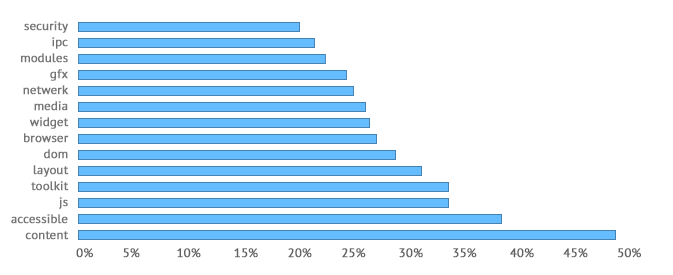
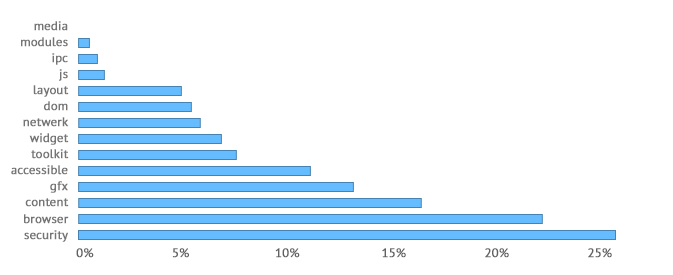
Updated charts, prose

diff --git a/prose/index.htm b/prose/index.htm
@@ -43,15 +43,20 @@
 				<div style="position:absolute;margin-top:20px;height:40px"></div>
 				<h1>How maintainable is the Firefox codebase?</h1>
 				<h2>ALI ALMOSSAWI</h2>
-				<div class="date">May 14, 2013</div>
+				<div class="date">May 15, 2013</div>
 				
 <br /><br /><br />
-<p>Look at this joyful man.</p>
+<!--<p>Look at this joyful man.</p>
 <div class="smile">(&middot;‿&middot;)</div>
 
 
-<p>He looks healthy doesn't he?  Not so fast, says Medical Science.  He might very well be healthy, but to make sure, we first need to probe his insides and take a look at his internal organs.</p>
-<p>A few months ago, I probed the insides of the Firefox codebase.  What follows is a summary of my findings as well as a description of what I did, which might be helpful for those wishing to replicate this work with other codebases.</p>
+<p>He looks healthy doesn't he?  Not so fast, says Medical Science.  He might very well be healthy, but to make sure, we first need to probe his insides and take a look at his internal organs.</p>-->
+
+<p class="subtitle">Abstract</p>
+<p>This work explores a particular facet of quality in Firefox, namely, maintainability.  By appealing to the explanatory powers of five distinct and practical measures of architectural complexity, and with the aid of static analysis and network manipulation tools, we arrive at some preliminary findings.  We find that 11% of files in Firefox are highly interconnected, a value that went up significantly following version 3.0.  We find that making any change to a randomly selected file can, on average, directly impact eight files and indirectly impact over 1,400 files.  We see that files' internal complexity is on average going down.  Their external complexity as measured by direct dependencies is also going down, whereas their external complexity as measured by propagation cost has remained steady.  With respect to process, we find that the switch to the rapid release cycle from version 5.0 onwards had a positive impact on quality.  Though the analysis reveals no imminently alarming red flags when it comes to maintainability, it does shine light on a number of issues that would be worth investigating.</p>
+
+<p class="subtitle">1 Intro</p>
+<p>I recently started looking at the Firefox codebase.  What follows is a summary of my findings as well as a description of what I did, which might be helpful for those wishing to replicate this work with other codebases.</p>
 <p>The question that motivated this inquiry was: &ldquo;How healthy is the Firefox codebase&rdquo;, which suggests that the fundamental facet of interest in the system at hand is its quality.  The goal of this work was two-fold:</p>
 
 <ol>
@@ -61,32 +66,31 @@
 
 The exploratory tool's source-code as well as the data described herein are available on <a href="https://github.com/almossawi/Firefox-Codebase-Evolution/">Github</a>.
 
-<p class="subtitle">Abstract</p>
-<p>This work explores a particular facet of quality in Firefox, namely, maintainability.  By appealing to the explanatory powers of five distinct and practical measures of architectural complexity, and with the aid of static analysis and network manipulation tools, we arrive at some preliminary findings.  We find that 11% of files in Firefox are highly interconnected, a value that went up significantly following version 3.0.  We find that making any change to a randomly selected file can, on average, directly impact eight files and indirectly impact over 1,400 files.  We see that files' internal complexity is on average going down.  Their external complexity as measured by direct dependencies is also going down, whereas their external complexity as measured by propagation cost has remained steady.  With respect to process, we find that the switch to the rapid release cycle from version 5.0 onwards had a positive impact on quality.  Though the analysis reveals no imminently alarming red flags when it comes to maintainability, it does shine light on a number of issues that would be worth investigating.</p>
-
-<p class="subtitle">1 Defining quality</p>
+<p class="subtitle">2 Defining quality</p>
 <p>As actively developed software ages, it tends to grow in size and can accumulate what is known as technical debt, wherein tiny deviations from a good process, shortcuts here and there and less than optimal code changes build up into debt that the team is then forced to pay off in the form of a refactoring effort.  One of the ways of measuring architectural changes in large codebases that can lead to technical debt is by looking at pertinent quality attributes, primary of which, in my opinion, is maintainability.  Maintainability is ambiguous though and can cover a wide spectrum of things.  What exactly do we mean by it?  Let us codify it using a set of concrete metrics.  In this case, I have chosen the following metrics:</p>
 
-<p class="subtitle">1.1 LOC</p>
+<p class="subtitle">2.1 LOC</p>
 <p>LOC measures the number of executable lines of code in each release, ignoring comments and blank lines, and is widely used as a baseline measure of quality [1][2]. A system with more LOC is typically more difficult to maintain.  LOC and defect density have an inverse relationship [3][4][5], or according to some studies a curvilinear relationship [6].  This may seem counterintuitive at first.  The explanation is that firstly, architecture does not change at the same rate as LOC, and secondly, that a sizable number of defects occur within the interfaces that tie modules or components together.  In a small system, the likelihood of a defect occuring in an interface is fairly high.  As the system's size increases, most of the new code ends up going into modules and components rather than into new interfaces, and hence the propensity for defects per LOC goes down as LOC goes up.
 <p>Here, the set of analyzed files includes all files that meet our file-type filter<sup>1</sup>, including unit tests, which in some versions constitute over 50% of all files and up to several hundreds of thousands of LOC. A lot of these unit tests are thrown out during a later stage for being singletons, i.e. having no dependencies to or from any other file in the codebase.</p>
 
 <p class="footy"><sup>1</sup> .c, .C, .cc, .cpp, .css, .cxx, .h, .H, .hh, .hpp, .htm, .html, .hxx, .inl, .java, .js, .py, .s, .xml</p>
 
-<p class="subtitle">1.2 Cyclomatic complexity</p>
+<p class="subtitle">2.2 Cyclomatic complexity</p>
 <p>Cyclomatic complexity, developed by Thomas McCabe in 1976, measures the number of linearly independent paths within a software system and can be applied either to the entire system or to a constituent part [7]. By viewing a block of code as a control graph, the nodes constitute indivisible lines of code that execute in sequence and the directed edges connect two nodes if one can occur after the other. So, for example, branching constructs like if-else statements would result in a node being connected to two output nodes, one for each branch.</p>
 <p>Cyclomatic complexity is defined as v(G) = e – n + 2p where v(G) is the cyclomatic number of a graph G, e is the number of edges, n is the number of nodes and p is the number of connected components, or exit nodes, in the graph. A block of code with a single set of if-else statements would be calculated as follows: e = 6, n = 6 and p = 1, therefore, v(G) = 6 – 6 + 2 * 1 = 2. The additive nature of the metric means that the complexity of several graphs is equal to the sum of each graph. In our measure of cyclomatic complexity, we control for size and hence, the value for each release is per 1,000 LOC.</p>
 
-<p class="subtitle">1.3 First-order density</p>
+<div class="page-break"></div>
+	
+<p class="subtitle">2.3 First-order density</p>
 <p>First-order density measures the number of direct dependencies between files.  For releases, we show it per 10,000 file pairs whereas for modules, where matrices are generally not as sparse, we show the density as a percentage. The way it is calculated is by first building an adjacency matrix, sometimes called a Design Structure Matrix (DSM), using the set of source-code files sorted by their hierarchical directory structure. Wherever a file in a particular row depends on a file in a particular column, we mark the element with a '1'.  Because we're only capturing direct dependencies, this matrix is referred to as a first-order dependency matrix.</p>
 <p>In such a matrix, a square-shaped cluster indicates many dependencies between files within a module.  All the dots to the right and left of a cluster are files that the module depends on. All files above and below it are files that depend on it. In many paradigms, modularity (low coupling, high cohesion) is a desirable quality attribute. Hence, an ideal system has modules that have more intra-module dependencies and fewer inter-module dependencies.  Dividing the number of non-zero elements by the matrix size and adjusting by our multiplier then gives us our measure of density.</p>
 
-<p class="subtitle">1.4 Propagation cost</p>
+<p class="subtitle">2.4 Propagation cost</p>
 <p>Propagation cost measures direct as well as indirect dependencies between files in a codebase. In practical terms, it gives a sense of the proportion of files that may be impacted, on average, when a change is made to a randomly chosen file [8][9].</p>
 <p>The process of transforming a first-order dependency matrix that captures only direct dependencies between files to a visibility matrix, also known as a reachability matrix, that captures indirect dependencies as well is achieved through matrix multiplication by raising the first-order dependency matrix to multiple successive powers until we achieve its transitive closure. Thus, a matrix raised to the power of two would show the indirect dependencies between elements that have a path length of two, i.e. calls from A to C, if A calls B and B calls C. Thereafter, by summing these matrices together one gets the visibility matrix.  With the Firefox codebase, the longest chain of calls is seven calls, hence no file that is connected to another is more than seven calls away.</p>
 <p>For this ripple effect to be of use in analysis, the density of the visibility matrix is captured within the metric that we call propagation cost.</p>
 
-<p class="subtitle">1.5 Core size</p>
+<p class="subtitle">2.5 Core size</p>
 <p>Core files are files that are highly interconnected via a chain of cyclic dependencies and have been shown in various studies to have a higher propensity for defects [10]. They are one of four types of files that one sees when plotting files along the axes of fan-in and fan-out<sup>2</sup>, the intuition for this breakout being that different directions and magnitudes of dependencies have varying impacts on software quality. This intuition has been validated by several studies [11][12] and a smaller core has been shown to result in fewer defects.</p>
 <img src="images/core_periph.png" />
 <p class="caption">Diagram 1: Four types of files.</p>
@@ -97,10 +101,10 @@ The exploratory tool's source-code as well as the data described herein are avai
 <p>Since it makes practical sense to think of files beyond such a point as being part of a large cycle of calls, we use this point to calculate the core.  A core file is therefore one whose indirect fan-in is greater than the first discontinuity point in the distribution of fan-in values and whose indirect fan-out is greater than the first discontinuity point in the distribution of fan-out values<sup>3</sup>.</p>
 
 <p class="footy"><sup>2</sup> Fan-in captures the count of dependencies flowing into an element; fan-out captures the count of dependencies flowing out of an element.</p>
-<p class="footy"><sup>3</sup> The spreadsheet referenced below includes two columns for core size; one calculated as described and one calculated using medians.  When medians are used, we see a higher series of core sizes (mean = 39%); both series are highly and positively correlated.
+<p class="footy"><sup>3</sup> The spreadsheet referenced below includes two columns for core size; one calculated as described and one calculated using medians.  When medians are used, we see a series of higher core sizes (mean = 39%); both series are highly and positively correlated.
 
-<p class="subtitle">2 Method</p>
-<p class="subtitle">2.1 Data</p>
+<p class="subtitle">3 Method</p>
+<p class="subtitle">3.1 Data</p>
 <p>The dataset consists of the codebases of 23 major releases of Firefox, from v1.0 to v20.0, all of which are large enough for analysis and so we don't have to worry about adversely impacting our architectural measures as a result of having too few files.  Said measures can become unreliable when codebases are too small, which makes intuitive sense.  Furthermore, it is not very meaningful to talk about dependencies when the system size is small enough for one person to be knowledgeable about all of its modules.  The following table shows some descriptive statistics for the 23 codebases.</p>
 
 <!--<div class="page-break"></div>-->
@@ -211,11 +215,11 @@ The exploratory tool's source-code as well as the data described herein are avai
 	</tr>
 	<tr>
 		<td class="lhs">core size</td>
-		<td>28.45%</td>
-		<td>25.85%</td>
-		<td>9.06%</td>
-		<td>15.84%</td>
-		<td>52.28%</td>
+		<td>8.93%</td>
+		<td>5.03%</td>
+		<td>9.82%</td>
+		<td>0%</td>
+		<td>42.54%</td>
 	</tr>
 	<tr>
 		<td class="lhs">files</td>
@@ -229,14 +233,14 @@ The exploratory tool's source-code as well as the data described herein are avai
 <p class="caption">Table 2: Descriptive statistics for the set of Firefox modules (n=70)</p>
 <p>Full details are available in the spreadsheet <a href="https://docs.google.com/spreadsheet/ccc?key=0Ai_gYoOkxENIdHJUT0M3YXNzdVVYUXRkQzBWellHamc#gid=3">here</a> and the .json file <a href="http://almossawi.com/firefox/data/architectural.json">here</a>.</p>
 <p>Modules are a bit more nuanced since we generally want most of the interaction between files to happen within modules rather than between them.  For simplicity, we consider a module to be a system, which allows us to continue using the same measures of goodness discussed earlier.  Hence, a module that has a higher density of dependencies is considered to be less maintainable than one with a lower density.  This only gives partial insight into a module's architecture, and begs the question: Well, how do the number and density of internal calls compare with the number and density of external ones?  That question is part of the motivation for the third, currently in-progress, view on the <a href="../">Evolution of the Firefox Codebase</a> page.</p>
-<p>The distribution of files' fan-in and fan-out values shows two distinct patterns, both of which are skewed.  For direct fan-in and fan-out, we see a long tail indicating that the majority of files don't have that many direct inward and outward calls.  For indirect fan-in and fan-out values, which as mentioned earlier, are used to classify a file into one of several types and consequently calculate the core size for a codebase, we see that files either don't have that many indirect calls or are part of a set of files that has a high number of calls.</p>
+<p>The distribution of files' fan-in and fan-out values shows two distinct patterns, both of which are skewed.  For direct fan-in and fan-out, we see a smooth distribution with a very long tail indicating that the majority of files don't have that many direct inward and outward calls.  For indirect fan-in and fan-out values, which as mentioned earlier, are used to classify a file into one of several types and consequently calculate the core size for a codebase for module, we see that files either don't have that many indirect calls or are part of a cluster of files that has a high number of calls.  Almost all sets of files that were analyzed exhibit this &ldquo;Nessie&rdquo;-like pattern.  Those that do not most likely do not have a core.</p>
 
 <img src="images/vfi_vfo.png" style="width:713px"/>
 <p class="caption">Chart 1: Distribution of indirect fan-in and fan-out for the 12,822 files in Firefox v1.0.</p>
 
 <!--<p class="footy"><sup>3</sup> ಠ_ಠ</p>-->
 
-<p class="subtitle">2.2 Processing the data</p>
+<p class="subtitle">3.2 Processing the data</p>
 <p>Processing the data involves the use of a set of tools and scripts. The general workflow is shown in the following diagram.</p>
 
 <img src="images/process.png" style="width:570px"/>
@@ -244,18 +248,18 @@ The exploratory tool's source-code as well as the data described herein are avai
 
 <p>The tool set is comprised of a static analysis tool called Understand, MATLAB and a number of local and Web scripts. The input to the static analysis tool is a particular Firefox release's codebase or a particular module's code. The end-result is a set of metrics that are consolidated into a single dataset that may be analyzed further by a statistical analysis tool.  The three data sources that form the final dataset are enumerated below.</p>
 
-<p class="subtitle">2.2.1 Common complexity metrics</p>
+<p class="subtitle">3.2.1 Common complexity metrics</p>
 <p>The static analysis tool outputs common metrics such as LOC and cyclomatic complexity, which can be extracted either through a user interface or via a Perl API.  Generating these and similarly common metrics for each codebase can be time-consuming.  Furthermore, it seems like the tool has to reprocess files every time a project is reopened.  On the plus side, we get a large amount of useful data that can be broken down by system, module or component.</p>
 
 <!--<div class="page-break"></div>-->
 
-<p class="subtitle">2.2.2 Dependency metrics</p>
+<p class="subtitle">3.2.2 Dependency metrics</p>
 <p>The static analysis tool is used to export dependency data for a particular release.  The generated .csv file has three columns: from, to, references.  The first two columns store the full path of each file and the third is the number of references between the two files.  Each row in the file is a source-code file pair.  The .csv file is then processed by a Perl script, which replaces the data in the first two columns with integers that reference file names stored in a separate lookup file.  That processed data is then used as input for a MATLAB script, which uses it to a) build a first-order dependency matrix, b) raise it to multiple powers until its transitive closure is reached resulting in a visibility matrix and c) generate the desired complexity measures &#8211; first-order density, propagation cost, core size and a few others.</p>
 <p>Here is an example of a first-order matrix showing direct dependencies between files in the <i>gfx</i> module in Firefox 20 (left) and the visibility matrix for the same module (right).  Notice how new patterns of dependencies emerge when we start considering indirect dependencies.</p>
 <img src="images/firefox20_gfx_module_matrices.png" style="width:600px" />
 <p class="caption">Diagram 3: A first-order dependency matrix (left) and visibility matrix (right) for the same module.</p>
 
-<p class="subtitle">2.2.3 Defect metrics</p>
+<p class="subtitle">3.2.3 Defect metrics</p>
 <p>We use a Web script to query the Bugzilla database and gather defect data for individual releases.  The parameters of our request use the following criteria: </p>
 <ol>
 	<li>Status &ne; “unconfirmed”</li>
@@ -273,13 +277,15 @@ The exploratory tool's source-code as well as the data described herein are avai
 
 <p class="footy"><sup>4</sup> The resolution field can be either &lsquo;fixed&rsquo; or &lsquo;---&rsquo;, which accommodates both sets of closed and fixed defects as well as confirmed open ones.</p>
 
-<p class="subtitle">3 Findings</p>
-<p class="subtitle">3.1 Architectural indicators generally show satisfactory levels of maintainability</p>
+<p class="subtitle">4 Findings</p>
+<p class="subtitle">4.1 Architectural indicators generally show satisfactory levels of maintainability</p>
 	<p>Cyclomatic complexity shows a slow decreasing trend at a mean rate of -0.85% with the most recent release showing it to be the lowest ever.  This is a good thing.  It indicates that the code within files is, on average, getting less complex.</p>
 	<div class="chart_container" id="allversions_mccabe_per_kloc">
 		<div></div>
 	</div>
 	<p class="caption">Chart 2: Cyclomatic complexity.</p>
+	
+	<div class="page-break"></div>
 	
 	<p>LOC code is growing at a mean rate of 4.04%.  Using other open-source codebases as benchmarks, this appears to be a reasonable rate.  Only in v4.0 did LOC grow at a noticeably larger rate of 20.34%.  Given the context, this may be understandable seeing how significant a release v4.0 was for Mozilla.  At no point do we see substantial drops in LOC, something that would be indicative of a major refactoring effort, as was the case with the original Mozilla browser.</p>
 	<div class="chart_container" id="allversions_loc_code">
@@ -301,13 +307,15 @@ The exploratory tool's source-code as well as the data described herein are avai
 	</div>
 	<p class="caption">Chart 5: Propagation cost.</p>
 	
+	<div class="page-break"></div>
+	
 	<p>Core size shows a regime shift at v3.0 with the mean size increasing from 3.55% to 12.51%.  v3.0 is the only Firefox release to have been in development for two years.   All others before the Rapid Release Cycle spent approximately one year in development. Further investigation would be needed to uncover what, during those two years of development, was the main driver of this uplift in the number of highly interconnected files.  Note that the total number of dependencies dropped significantly in that release, however, the proportion of highly interconnected files increased.</p>
 	<div class="chart_container" id="allversions_percent_in_core_at_discontinuity">
 		<div></div>
 	</div>
 	<p class="caption">Chart 6: Core size.</p>
 	
-<p class="subtitle">3.2 Switching to the rapid release cycle (RRC) has had a positive impact on maintainability</p>
+<p class="subtitle">4.2 Switching to the rapid release cycle (RRC) has had a positive impact on maintainability</p>
 <p>RRC began with v5.0 of Firefox and aimed to constrain the release cycle to 6-week time periods and tighten the software development lifecycle.  Comparing the seven observations from before the switch to RRC with the 16 afterwards reveals the following results.</p>
 	<p>Propagation cost shows little change before and after RRC, having slightly gone up from a mean of 4.36% to 5.57%, however, looking at its mean release-over-release growth, it becomes evident that it has become much less volatile, having gone down from 20.02% to just 3.30%, which is a good improvement.  Its standard deviation has dropped from 51.95% to 21.54%.</p>
 	<p>Core size is, similarly, much less volatile after RRC, with its mean growth dropping from 47.51% to 6.54% and its standard deviation from 89.02% to 24.53%.</p>
@@ -315,7 +323,7 @@ The exploratory tool's source-code as well as the data described herein are avai
 	<p>First-order density has improved seeing as it the mean density has gone down from 4.75 to 2.11, though that seems to be despite the switch to RRC rather than because of it; first-order density appears to have in fact exhibited a downward trend from v3.0 onwards.  The biggest dip occurred in v3.5 where it dropped 33.46%.</p>
 	<p>Cyclomatic complexity has been steadily improving over time, though like density, the trend of improvement started before the switch to RRC.  Having said that, its mean growth following the switch is a slightly improved -1.10% compared to -0.19% before.</p>
 
-<p class="subtitle">3.3 A subset of modules appears to be noticeably more complex than the rest</p>
+<p class="subtitle">4.3 A subset of modules appears to be noticeably more complex than the rest</p>
 <p>Splitting our module-level data by module and looking at the mean values for each module for each of the above metrics reveals the following about the maintainability levels of our various modules:</p>
 
 <table>
@@ -346,8 +354,8 @@ The exploratory tool's source-code as well as the data described herein are avai
 	</tr>
 	<tr>
 		<td class="lhs">core size</td>
-		<td>security<br />(19.96%)</td>
-		<td>content<br />(48.65%)</td>
+		<td>media<br />(0%)</td>
+		<td>security<br />(25.91%)</td>
 	</tr>
 </table>
 <p class="caption">Table 3: Comparing the maintainability levels of Firefox modules from the past five releases (n=14)</p>
@@ -365,24 +373,24 @@ The exploratory tool's source-code as well as the data described herein are avai
 <img src="images/propcost_modules_comparison.png" />
 <p class="caption">Chart 9: Mean propagation cost.</p>
 
-<p>With core size, we see that the module with the highest mean core size, <i>content</i>, is noticeably higher than the remaining modules, being as it is 48.65%.</p>
+<p>With core size, we see that the modules with the highest mean core sizes, <i>security</i> and <i>browser</i>, are noticeably higher than the remaining modules, being as they are 25.91% and 22.35%, respectively.  Some modules have tiny cores, and at least one module, <i>media</i>, has no discernible core.</p>
 <img src="images/coresize_modules_comparison.png" />
 <p class="caption">Chart 10: Mean core size.</p>
 
-<p class="subtitle">4 Take-away</p>
+<p class="subtitle">5 Take-away</p>
 <p>It is impressive that an open-source project developed and maintained by a distributed team of paid staff and volunteers has been able to produce a product as impactful as the Firefox browser.  One sees larger, more expensive, software projects become drastically less maintainable in only a few years by virtue of their development processes becoming more chaotic and coding best practices being abandoned in favor of premature pragmatism.  With Firefox, We see the decision to move to a tighter, more predictable, development process possibly helping to improve quality.</p>
 <p>Firefox's core size is somewhat elevated indicating that highly interconnected files make up a sizable portion of the codebase.  Though the measure shows no signs of following an upward trend, that may quickly change should, say, any organizational dynamics change.  The changes in version 3.0 of the product that led to Firefox's core size increasing by over 200% may be worth looking into.  Having said that, the analysis reveals no imminently alarming red flags when it comes to maintainability.  A number of modules, namely, <i>accessible</i>, <i>browser</i> and <i>security</i>, frequently appear among the most complex modules.  Further investigation may be helpful in identifying why that is the case.</p>
 <p>A caveat worth mentioning in closing is that, as with any set of software metrics, the measures described herein only reveal part of the picture.  The chosen architectural measures make the assumption that directory structure reflects the logical hierarchy of modules within Firefox.  I have not looked into the extent to which this is the case.</p>
 
-<p class="subtitle">5 Next steps</p>
+<p class="subtitle">6 Next steps</p>
 <p>An upcoming article will focus on defects, specifically, classes that show the highest propensity for regressions.  It will also take a closer look at how Firefox's architectural measures of complexity compare to those of other open-source projects.</p>
 
-<p class="subtitle">6 Acknowledgements</p>
-<p>Thanks to <a href="https://brendaneich.com/">Brendan Eich</a> and <a href="https://github.com/saptarshiguha">Saptarshi Guha</a> for their feedback, which helped improve this writeup.  Thanks to <a href="http://www.hbs.edu/faculty/Pages/profile.aspx?facId=6503">Alan MacCormack</a> for sharing his expertise about several of the ideas that were discussed here and <a href="http://blogs.gnome.org/aklapper/">André Klapper</a> for helping with some of the exploratory work that led up to this project.</p>
+<p class="subtitle">7 Acknowledgements</p>
+<p>Thanks to <a href="https://brendaneich.com/">Brendan Eich</a>, Brendan Colloran and <a href="https://github.com/saptarshiguha">Saptarshi Guha</a> for their feedback, which helped improve this writeup.  Thanks to <a href="http://www.hbs.edu/faculty/Pages/profile.aspx?facId=6503">Alan MacCormack</a> for sharing his experience with working with several of the measures that were discussed here and <a href="http://blogs.gnome.org/aklapper/">André Klapper</a> for helping with some of the exploratory work that led up to this project.</p>
 
 <div class="page-break"></div>
 
-<p class="subtitle">7 References</p>
+<p class="subtitle">8 References</p>
 <p>[1] Hatton, L. "The role of empiricism in improving the reliability of future software." Les Hatton. 2008. http://www.leshatton.org.</p>
 <p>[2] Shore, J. An Approximate Measure of Technical Debt. 11 19, 2008. http://jamesshore.com/Blog/An-Approximate-Measure-of-Technical-Debt.html (accessed February 2, 2013).</p>
 <p>[3] Kan, S. H. Metrics and Models in Software Quality Engineering. Addison Wesley, 1995.</p>
@@ -396,8 +404,8 @@ The exploratory tool's source-code as well as the data described herein are avai
 <p>[11] MacCormack, A., C. Baldwin, and J. Rusnak. "The Architecture of Complex Systems: Do Core-periphery Structures Dominate?" MIT Research Paper no. 4770-10, Harvard Business School Finance Working Paper no. 1539115, 2010.</p>
 <p>[12] Almossawi, A., "An Empirical Study of Defects and Reopened Defects in GNOME." Unpublished, 2012.</p>
 
-<p style="border-top:1px solid #cccccc;margin-top:20px;padding-top:50px;padding-bottom:20px">Don't forget to check out the <a href="../">Evolution of the Firefox Codebase</a> page, which allows you to interactively explore the data described herein.  This work is being shared under a Creative Commons license <a href="http://creativecommons.org/licenses/by-nc/3.0/">(CC BY-NC)</a>.  To share your thoughts, feel free to <a href="https://twitter.com/alialmossawi">chat with me on Twitter</a>.</p>
-<p style="padding-bottom:0px;font-size:14px">ali@mozilla.com &nbsp;&middot;&nbsp; May 14, 2013<!-- &nbsp;&middot;&nbsp; <a href="http://twitter.com/alialmossawi">Follow me on Twitter</a>--></p>
+<p style="border-top:1px solid #cccccc;margin-top:20px;padding-top:50px;padding-bottom:20px">Don't forget to check out the <a href="../">Evolution of the Firefox Codebase</a> page, which allows you to interactively explore the data described herein.  This work is being shared under a Creative Commons license <a href="http://creativecommons.org/licenses/by-nc/3.0/">(CC BY-NC)</a>.  To share your thoughts, feel free to <a href="https://twitter.com/alialmossawi">chat with me on Twitter</a>.  Once again, you may download the data from <a href="https://docs.google.com/spreadsheet/ccc?key=0Ai_gYoOkxENIdHJUT0M3YXNzdVVYUXRkQzBWellHamc#gid=6">here</a> and <a href="http://almossawi.com/firefox/data/architectural.json">here</a>.</p>
+<p style="padding-bottom:0px;font-size:14px">ali@mozilla.com &nbsp;&middot;&nbsp; May 15, 2013<!-- &nbsp;&middot;&nbsp; <a href="http://twitter.com/alialmossawi">Follow me on Twitter</a>--></p>
 
 <div style="float:left;padding-bottom:20px">
 	<a href="https://twitter.com/alialmossawi" class="twitter-follow-button" data-show-count="false">Follow @alialmossawi</a>

diff --git a/js/global.js b/js/global.js
@@ -14,7 +14,7 @@ var loc_code_max_value_override = 670000,
 	mccabe_per_kloc_code_override = 210,
 	sum_fanin_override = 28000,
 	sum_vfanin_override = 1000000,
-	percent_in_core_override = 0.55,
+	percent_in_core_override = 0.45,
 	dependencies_density_override = 0.015,
 	prop_cost_override = 0.26;
 
@@ -65,7 +65,7 @@ metrics_nice["mccabe_per_kloc_code"] = "Cyclomatic complexity";
 metrics_nice["loc_code"] = "LOC";
 metrics_nice["dependencies_density"] = "First-order density";
 metrics_nice["prop_cost"] = "Propagation cost";
-metrics_nice["percent_in_core"] = "Core size";
+metrics_nice["percent_in_core_at_discontinuity"] = "Core size";
 metrics_nice["files_with_dependencies"] = "Files";
 metrics_nice["sum_fanin"] = "Direct dependencies";
 metrics_nice["sum_vfanin"] = "Indirect dependencies";
@@ -95,8 +95,8 @@ $(document).ready(function () {
 	$("#prop_cost")
 		.append("<div class='metric_title' style='width:460px'>" + metrics_nice["prop_cost"] + "</div>");
 		
-	$("#percent_in_core")
-		.append("<div class='metric_title' style='width:460px'>" + metrics_nice["percent_in_core"] + "</div>");
+	$("#percent_in_core_at_discontinuity")
+		.append("<div class='metric_title' style='width:460px'>" + metrics_nice["percent_in_core_at_discontinuity"] + "</div>");
 		
 	$("#files_with_dependencies")
 		.append("<div class='metric_title' style='width:460px'>" + metrics_nice["files_with_dependencies"] + "</div>");
@@ -619,7 +619,7 @@ function loadChartView(are_we_updating) {
 			drawMetric("#metric #chart_view #mccabe_per_kloc_code", ["mccabe_per_kloc_code", "mccabe_per_kloc_code"], mccabe_per_kloc_code_override, 0, are_we_updating, false);
 			drawMetric("#metric #chart_view #dependencies_density", ["dependencies_density", "dependencies_density"], dependencies_density_override, 1, are_we_updating, false);
 			drawMetric("#metric #chart_view #prop_cost", ["prop_cost", "prop_cost"], prop_cost_override, 1, are_we_updating, false);
-			drawMetric("#metric #chart_view #percent_in_core", ["percent_in_core", "percent_in_core"], percent_in_core_override, 1, are_we_updating, false);
+			drawMetric("#metric #chart_view #percent_in_core_at_discontinuity", ["percent_in_core_at_discontinuity", "percent_in_core_at_discontinuity"], percent_in_core_override, 1, are_we_updating, false);
 			drawMetric("#metric #chart_view #files_with_dependencies", ["files_with_dependencies", "files_with_dependencies"], "", 0, are_we_updating, true);
 			//drawMetric("#metric #chart_view #sum_fanin", ["sum_fanin", "sum_fanin"], sum_fanin_override, 0, are_we_updating);
 			//drawMetric("#metric #chart_view #sum_vfanin", ["sum_vfanin", "sum_vfanin"], sum_vfanin_override, 0, are_we_updating);	 
@@ -937,7 +937,7 @@ function drawCharts() {
 				splice_from = 0,
 				max_y_value = "";
 			
-			if(id == "allversions_prop_cost" || id == "allversions_percent_in_core" || id == "allversions_percent_in_core_at_discontinuity")
+			if(id == "allversions_prop_cost" || id == "allversions_percent_in_core_at_discontinuity")
 				format = "%";
 			
 			if(id == "allversions_speed")
@@ -952,9 +952,6 @@ function drawCharts() {
 			
 			if(id == "allversions_prop_cost")
 				max_y_value = 0.25;
-				
-			if(id == "allversions_percent_in_core")
-				max_y_value = 1;
 				
 			if(id == "allversions_percent_in_core_at_discontinuity")
 				max_y_value = 0.5;

diff --git a/index.htm b/index.htm
@@ -93,7 +93,7 @@
                     <div id="mccabe_per_kloc_code" class="topmetric"></div>
                     <div id="dependencies_density" class="topmetric"></div>
                     <div id="prop_cost" class="topmetric"></div>
-                    <div id="percent_in_core" class="topmetric"></div>
+                    <div id="percent_in_core_at_discontinuity" class="topmetric"></div>
                     <div id="files_with_dependencies" class="topmetric"></div>
                     
                     
